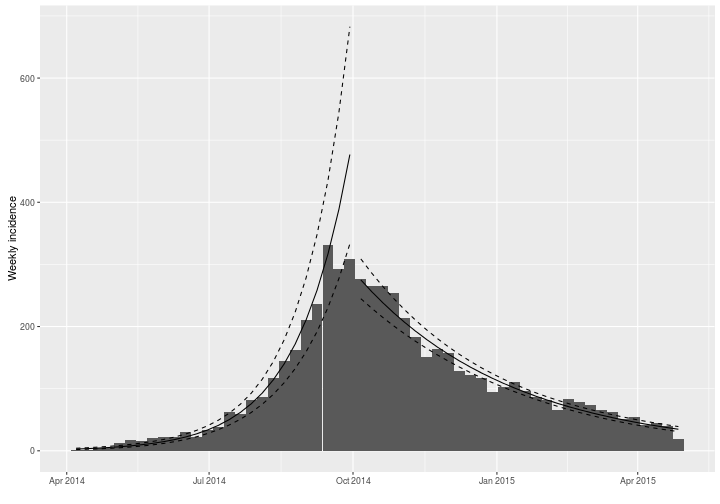
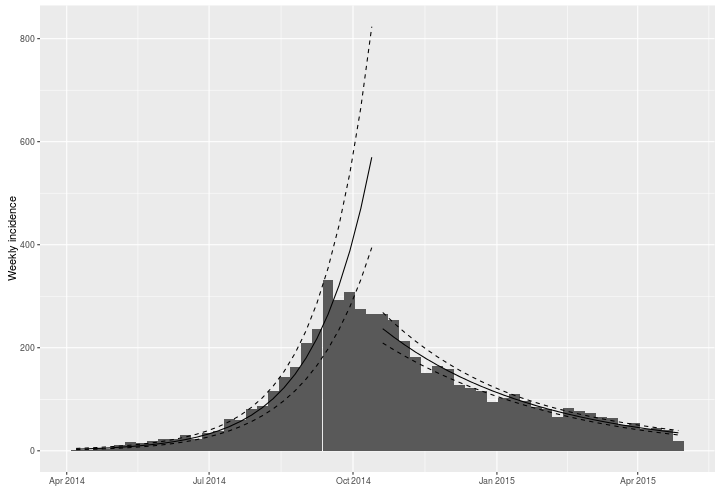
adjusting figures

diff --git a/README.md b/README.md
@@ -216,7 +216,7 @@ In this case, we would ideally like to fit two models, before and after the peak
 This is possible using the following approach:
 
 ```r
-fit.both <- fit(i.7, split=as.Date("2014-10-01"))
+fit.both <- fit(i.7, split=as.Date("2014-10-15"))
 fit.both
 ```
 
@@ -227,12 +227,12 @@ fit.both
 ## $lm: regression of log-incidence over time
 ## 
 ## $info: list containing the following items:
-##   $r.day: 0.02920 (daily growth rate)
-##   $r.day.conf: [0.02569 ; 0.03272] (confidence interval)
-##   $doubling: 23.7 (doubling time in days)
-##   $doubling.conf: [21.2 ; 27.0] (confidence interval)
-##   $pred: 26 predictions of incidence
-##   $pred.conf: 26 x 2 matrix of predictions (confidence interval)
+##   $r.day: 0.02742 (daily growth rate)
+##   $r.day.conf: [0.02408 ; 0.03076] (confidence interval)
+##   $doubling: 25.3 (doubling time in days)
+##   $doubling.conf: [22.5 ; 28.8] (confidence interval)
+##   $pred: 28 predictions of incidence
+##   $pred.conf: 28 x 2 matrix of predictions (confidence interval)
 ## 
 ## $after
 ## <incidence.fit object>
@@ -240,12 +240,12 @@ fit.both
 ## $lm: regression of log-incidence over time
 ## 
 ## $info: list containing the following items:
-##   $r.day: -0.01019 (daily growth rate)
-##   $r.day.conf: [-0.01117 ; -0.00921] (confidence interval)
-##   $halving: 68.0 (halving time in days)
-##   $halving.conf: [75.3 ; 62.0] (confidence interval)
-##   $pred: 30 predictions of incidence
-##   $pred.conf: 30 x 2 matrix of predictions (confidence interval)
+##   $r.day: -0.01014 (daily growth rate)
+##   $r.day.conf: [-0.01128 ; -0.00901] (confidence interval)
+##   $halving: 68.3 (halving time in days)
+##   $halving.conf: [76.9 ; 61.5] (confidence interval)
+##   $pred: 28 predictions of incidence
+##   $pred.conf: 28 x 2 matrix of predictions (confidence interval)
 ```
 
 ```r
